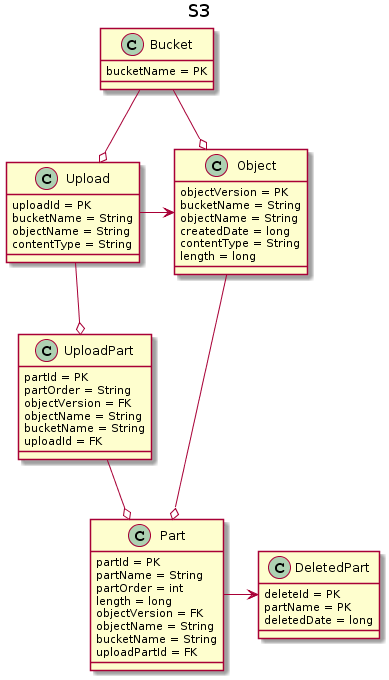
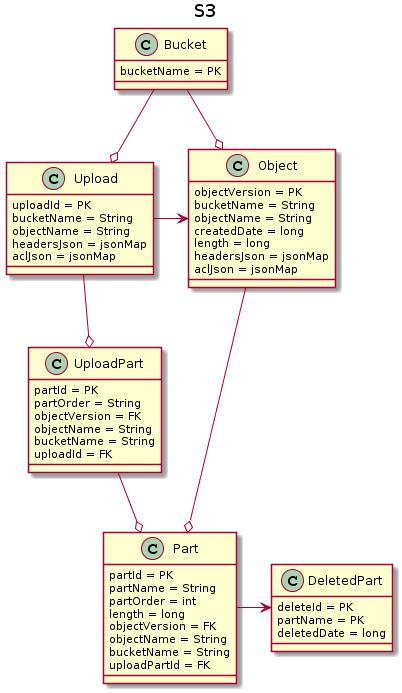
Update design + Simple refactor.

Changed region(s): [[0.0, 0.0, 0.9871, 1.0]]

diff --git a/s34j-spring/src/main/java/us/cuatoi/s34j/spring/helper/StorageHelper.java b/s34j-spring/src/main/java/us/cuatoi/s34j/spring/helper/StorageHelper.java
@@ -1,19 +1,18 @@
-package us.cuatoi.s34j.spring;
+package us.cuatoi.s34j.spring.helper;
 
 import com.google.api.client.xml.Xml;
 import org.xmlpull.v1.XmlPullParser;
 import org.xmlpull.v1.XmlPullParserException;
+import us.cuatoi.s34j.spring.SpringStorageConstants;
 import us.cuatoi.s34j.spring.dto.AbstractXml;
-import us.cuatoi.s34j.spring.helper.DateHelper;
-import us.cuatoi.s34j.spring.helper.JoinInputStream;
 
 import java.io.IOException;
 import java.io.InputStream;
 import java.io.InputStreamReader;
 import java.io.Reader;
-import java.util.Date;
-import java.util.List;
-import java.util.UUID;
+import java.text.ParseException;
+import java.text.SimpleDateFormat;
+import java.util.*;
 import java.util.concurrent.Callable;
 import java.util.stream.Collectors;
 
@@ -21,7 +20,7 @@ import static java.nio.charset.StandardCharsets.UTF_8;
 
 public class StorageHelper {
     public static String newVersion() {
-        return DateHelper.format(SpringStorageConstants.X_AMZ_DATE_FORMAT, new Date()) +
+        return format(SpringStorageConstants.X_AMZ_DATE_FORMAT, new Date()) +
                 "-" + UUID.randomUUID().toString();
     }
 
@@ -37,5 +36,19 @@ public class StorageHelper {
             Xml.parseElement(parser, xml, xml.getNamespaceDictionary(), null);
         }
         return xml;
+    }
+
+    public static String format(String format, Date date) {
+        return getFormatter(format).format(date);
+    }
+
+    private static SimpleDateFormat getFormatter(String format) {
+        SimpleDateFormat formatter = new SimpleDateFormat(format, Locale.US);
+        formatter.setTimeZone(TimeZone.getTimeZone("UTC"));
+        return formatter;
+    }
+
+    public static Date parse(String format, String dateString) throws ParseException {
+        return getFormatter(format).parse(dateString);
     }
 }

diff --git a/s34j-spring/src/main/java/us/cuatoi/s34j/spring/operation/upload/ListUploads.java b/s34j-spring/src/main/java/us/cuatoi/s34j/spring/operation/upload/ListUploads.java
@@ -14,7 +14,7 @@ import org.springframework.data.domain.PageRequest;
 import org.springframework.stereotype.Service;
 import us.cuatoi.s34j.spring.SpringStorageConstants;
 import us.cuatoi.s34j.spring.dto.*;
-import us.cuatoi.s34j.spring.helper.DateHelper;
+import us.cuatoi.s34j.spring.helper.StorageHelper;
 import us.cuatoi.s34j.spring.model.UploadModel;
 import us.cuatoi.s34j.spring.model.UploadRepository;
 import us.cuatoi.s34j.spring.operation.bucket.AbstractBucketRule;
@@ -79,7 +79,7 @@ public class ListUploads extends AbstractBucketRule {
                 UploadXml xml = new UploadXml();
                 xml.setObjectName(m.getObjectName());
                 xml.setStorageClass(SpringStorageConstants.STORAGE_CLASS);
-                xml.setInitiated(DateHelper.format(EXPIRATION_DATE_FORMAT, new Date(m.getCreatedDate())));
+                xml.setInitiated(StorageHelper.format(EXPIRATION_DATE_FORMAT, new Date(m.getCreatedDate())));
                 xml.setUploadId(m.getUploadId());
                 xml.setOwner(owner);
                 xml.setInitiator(initiator);

diff --git a/s34j-spring/src/main/java/us/cuatoi/s34j/spring/model/UploadModel.java b/s34j-spring/src/main/java/us/cuatoi/s34j/spring/model/UploadModel.java
@@ -4,6 +4,7 @@ import com.google.gson.Gson;
 import org.springframework.data.annotation.Id;
 
 import javax.persistence.Entity;
+import javax.persistence.Lob;
 
 @Entity
 public class UploadModel {
@@ -16,6 +17,10 @@ public class UploadModel {
     private String objectNamePrefix;
     private String owner;
     private String initiator;
+    @Lob
+    private String headerJson;
+    @Lob
+    private String aclJson;
 
     public String getUploadId() {
         return uploadId;
@@ -63,6 +68,22 @@ public class UploadModel {
 
     public void setInitiator(String initiator) {
         this.initiator = initiator;
+    }
+
+    public String getHeaderJson() {
+        return headerJson;
+    }
+
+    public void setHeaderJson(String headerJson) {
+        this.headerJson = headerJson;
+    }
+
+    public String getAclJson() {
+        return aclJson;
+    }
+
+    public void setAclJson(String aclJson) {
+        this.aclJson = aclJson;
     }
 
     @Override

diff --git a/s34j-spring/src/main/java/us/cuatoi/s34j/spring/model/ObjectModel.java b/s34j-spring/src/main/java/us/cuatoi/s34j/spring/model/ObjectModel.java
@@ -4,6 +4,7 @@ import com.google.gson.Gson;
 import org.springframework.data.annotation.Id;
 
 import javax.persistence.Entity;
+import javax.persistence.Lob;
 
 @Entity
 public class ObjectModel {
@@ -14,6 +15,10 @@ public class ObjectModel {
     private String bucketName;
     private String objectName;
     private long length;
+    @Lob
+    private String headerJson;
+    @Lob
+    private String aclJson;
 
     public long getCreatedDate() {
         return createdDate;
@@ -53,6 +58,22 @@ public class ObjectModel {
 
     public void setLength(long length) {
         this.length = length;
+    }
+
+    public String getHeaderJson() {
+        return headerJson;
+    }
+
+    public void setHeaderJson(String headerJson) {
+        this.headerJson = headerJson;
+    }
+
+    public String getAclJson() {
+        return aclJson;
+    }
+
+    public void setAclJson(String aclJson) {
+        this.aclJson = aclJson;
     }
 
     @Override

diff --git a/s34j-spring/src/main/java/us/cuatoi/s34j/spring/operation/ListAllBuckets.java b/s34j-spring/src/main/java/us/cuatoi/s34j/spring/operation/ListAllBuckets.java
@@ -13,7 +13,7 @@ import us.cuatoi.s34j.spring.dto.BucketXml;
 import us.cuatoi.s34j.spring.dto.BucketsXml;
 import us.cuatoi.s34j.spring.dto.ListAllMyBucketsResultXml;
 import us.cuatoi.s34j.spring.dto.OwnerXml;
-import us.cuatoi.s34j.spring.helper.DateHelper;
+import us.cuatoi.s34j.spring.helper.StorageHelper;
 import us.cuatoi.s34j.spring.model.BucketRepository;
 
 import java.util.Date;
@@ -41,7 +41,7 @@ public class ListAllBuckets implements ExecutionRule {
                     Date createdDate = new Date(b.getCreatedDate());
                     BucketXml xml = new BucketXml();
                     xml.setName(b.getBucketName());
-                    xml.setCreationDate(DateHelper.format(EXPIRATION_DATE_FORMAT, createdDate));
+                    xml.setCreationDate(StorageHelper.format(EXPIRATION_DATE_FORMAT, createdDate));
                     return xml;
                 })
                 .collect(Collectors.toList());

diff --git a/s34j-spring/src/main/java/us/cuatoi/s34j/spring/operation/object/HeadObject.java b/s34j-spring/src/main/java/us/cuatoi/s34j/spring/operation/object/HeadObject.java
@@ -8,7 +8,7 @@ import org.jeasy.rules.api.Facts;
 import org.springframework.beans.factory.annotation.Autowired;
 import org.springframework.stereotype.Service;
 import us.cuatoi.s34j.spring.SpringStorageConstants;
-import us.cuatoi.s34j.spring.helper.DateHelper;
+import us.cuatoi.s34j.spring.helper.StorageHelper;
 import us.cuatoi.s34j.spring.model.ObjectModel;
 import us.cuatoi.s34j.spring.model.ObjectRepository;
 
@@ -39,6 +39,6 @@ public class HeadObject extends AbstractObjectRule {
         facts.put("statusCode", 200);
         facts.put("responseHeader:contentLength", objectModel.getLength());
         facts.put("responseHeader:Last-Modified",
-                DateHelper.format(SpringStorageConstants.HTTP_HEADER_DATE_FORMAT, new Date(objectModel.getCreatedDate())));
+                StorageHelper.format(SpringStorageConstants.HTTP_HEADER_DATE_FORMAT, new Date(objectModel.getCreatedDate())));
     }
 }

diff --git a/s34j-spring/src/main/java/us/cuatoi/s34j/spring/auth/AuthorizationHeaderVerifier.java b/s34j-spring/src/main/java/us/cuatoi/s34j/spring/auth/AuthorizationHeaderVerifier.java
@@ -14,7 +14,7 @@ import org.springframework.stereotype.Service;
 import us.cuatoi.s34j.spring.SpringStorageConstants;
 import us.cuatoi.s34j.spring.SpringStorageException;
 import us.cuatoi.s34j.spring.dto.ErrorCode;
-import us.cuatoi.s34j.spring.helper.DateHelper;
+import us.cuatoi.s34j.spring.helper.StorageHelper;
 
 import java.text.ParseException;
 import java.util.Date;
@@ -119,7 +119,7 @@ public class AuthorizationHeaderVerifier implements AuthenticationRule {
         }
 
         try {
-            Date date = DateHelper.parse(X_AMZ_DATE_FORMAT, xAmzDate);
+            Date date = StorageHelper.parse(X_AMZ_DATE_FORMAT, xAmzDate);
             if (System.currentTimeMillis() - date.getTime() > TimeUnit.SECONDS.toMillis(maxRequestTimeDifferentInSeconds)) {
                 facts.put("errorCode", ErrorCode.REQUEST_TIME_TOO_SKEWED);
                 return false;

diff --git a/s34j-spring/src/main/java/us/cuatoi/s34j/spring/operation/upload/CompleteUpload.java b/s34j-spring/src/main/java/us/cuatoi/s34j/spring/operation/upload/CompleteUpload.java
@@ -11,11 +11,11 @@ import org.slf4j.LoggerFactory;
 import org.springframework.beans.factory.annotation.Autowired;
 import org.springframework.stereotype.Service;
 import us.cuatoi.s34j.spring.SpringStorageException;
-import us.cuatoi.s34j.spring.StorageHelper;
 import us.cuatoi.s34j.spring.dto.CompleteMultipartUploadResultXml;
 import us.cuatoi.s34j.spring.dto.CompleteMultipartUploadXml;
 import us.cuatoi.s34j.spring.dto.ErrorCode;
 import us.cuatoi.s34j.spring.dto.PartXml;
+import us.cuatoi.s34j.spring.helper.StorageHelper;
 import us.cuatoi.s34j.spring.model.*;
 
 import java.io.InputStream;

diff --git a/s34j-spring/src/main/java/us/cuatoi/s34j/spring/operation/upload/InitiateUpload.java b/s34j-spring/src/main/java/us/cuatoi/s34j/spring/operation/upload/InitiateUpload.java
@@ -17,7 +17,7 @@ import us.cuatoi.s34j.spring.model.UploadRepository;
 import us.cuatoi.s34j.spring.operation.bucket.AbstractBucketRule;
 
 import static org.apache.commons.lang3.StringUtils.isNotBlank;
-import static us.cuatoi.s34j.spring.StorageHelper.newVersion;
+import static us.cuatoi.s34j.spring.helper.StorageHelper.newVersion;
 
 @Service
 @Rule(name = "InitiateUpload")

diff --git a/s34j-spring/src/main/java/us/cuatoi/s34j/spring/operation/object/PutObject.java b/s34j-spring/src/main/java/us/cuatoi/s34j/spring/operation/object/PutObject.java
@@ -18,7 +18,7 @@ import java.util.List;
 
 import static org.apache.commons.lang3.StringUtils.isBlank;
 import static org.apache.commons.lang3.StringUtils.isNotBlank;
-import static us.cuatoi.s34j.spring.StorageHelper.newVersion;
+import static us.cuatoi.s34j.spring.helper.StorageHelper.newVersion;
 
 @Service
 @Rule(name = "PutObject")

diff --git a/s34j-spring/src/main/java/us/cuatoi/s34j/spring/operation/upload/PutUploadPart.java b/s34j-spring/src/main/java/us/cuatoi/s34j/spring/operation/upload/PutUploadPart.java
@@ -16,7 +16,7 @@ import java.util.ArrayList;
 import java.util.List;
 
 import static org.apache.commons.lang3.StringUtils.isNotBlank;
-import static us.cuatoi.s34j.spring.StorageHelper.newVersion;
+import static us.cuatoi.s34j.spring.helper.StorageHelper.newVersion;
 
 @Service
 @Rule(name = "PutUploadPart")

diff --git a/s34j-spring/src/main/java/us/cuatoi/s34j/spring/model/PartManager.java b/s34j-spring/src/main/java/us/cuatoi/s34j/spring/model/PartManager.java
@@ -15,7 +15,7 @@ import java.util.UUID;
 import java.util.concurrent.*;
 import java.util.stream.Collectors;
 
-import static us.cuatoi.s34j.spring.StorageHelper.newVersion;
+import static us.cuatoi.s34j.spring.helper.StorageHelper.newVersion;
 
 @Service
 public class PartManager {
